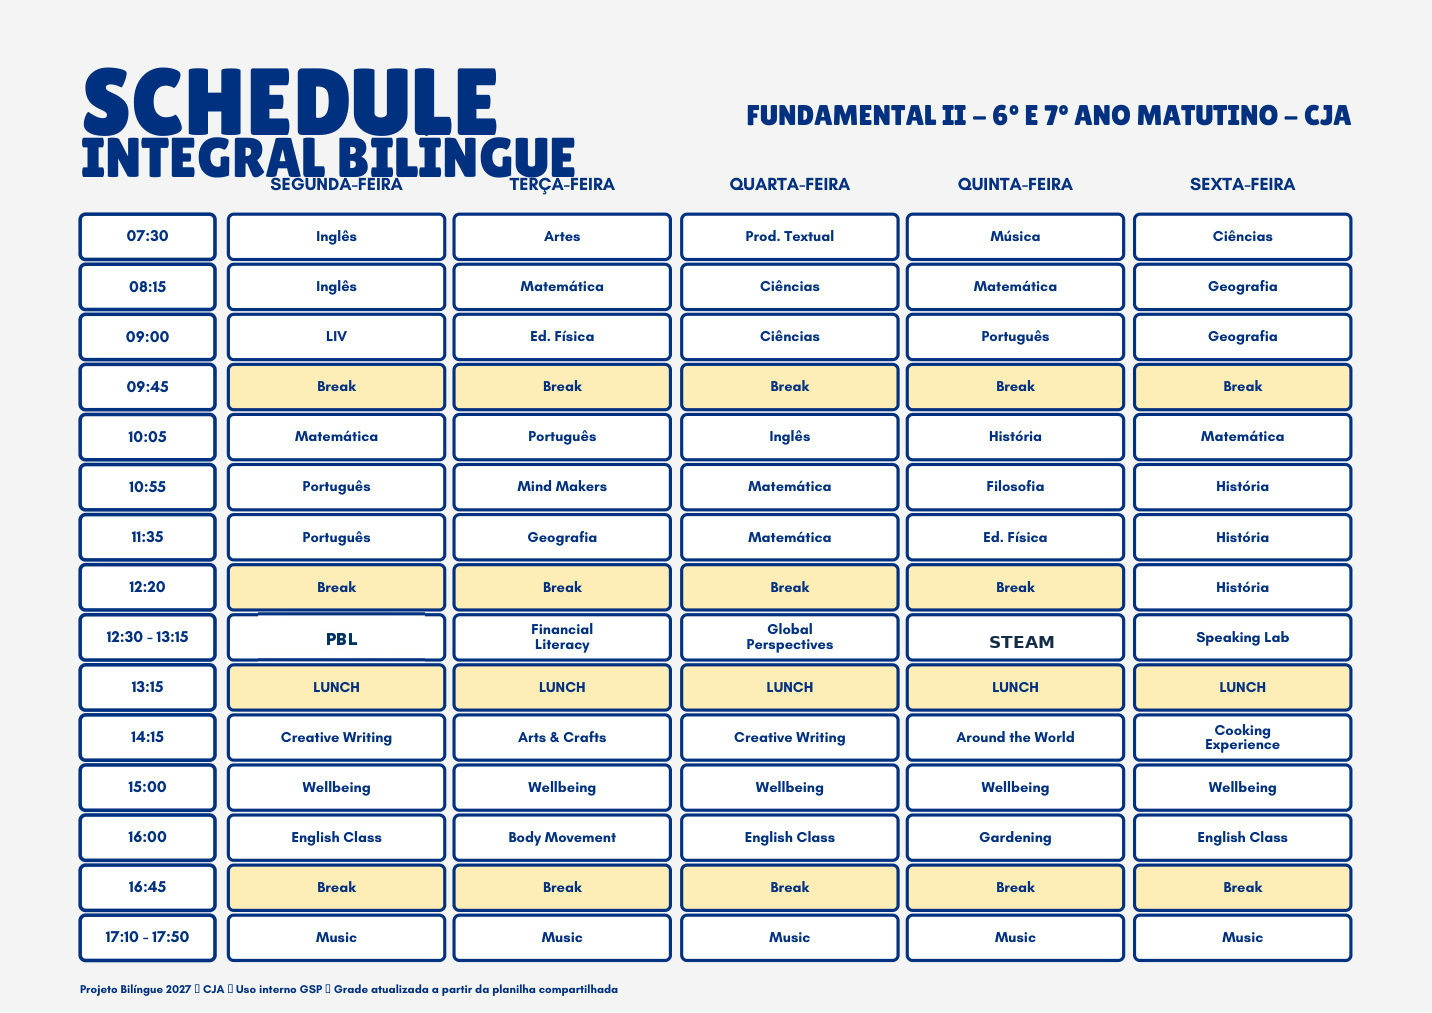
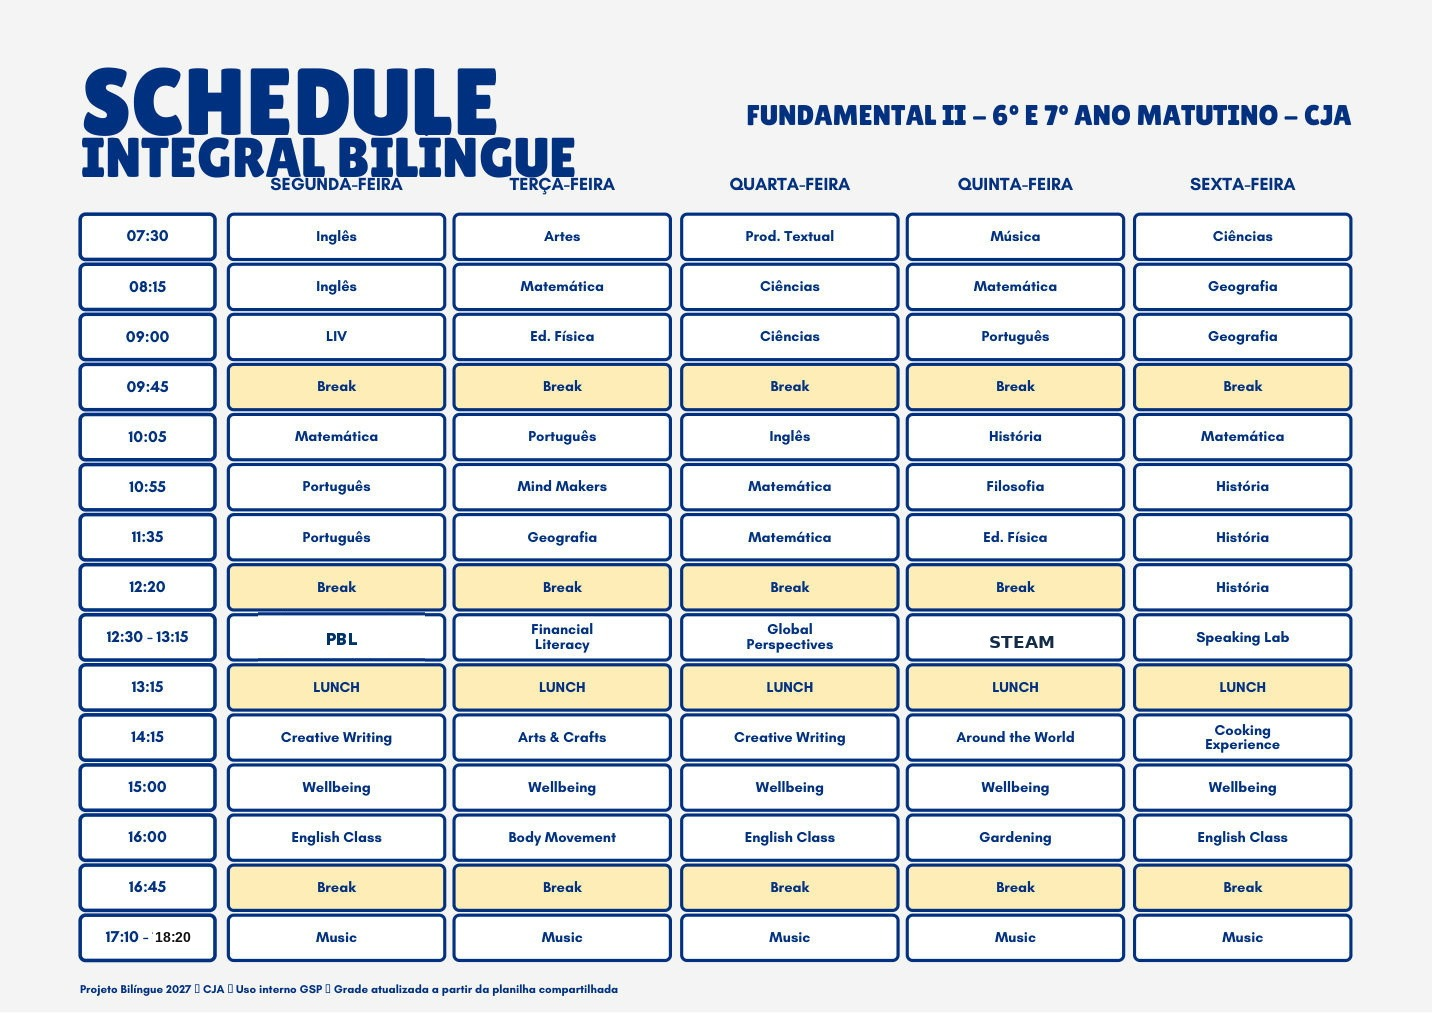
Ajusta horário final grade CJA F2 Integral

diff --git a/index.html b/index.html
@@ -71,7 +71,7 @@ function openSchool(id){currentSchool=portal.schools.find(s=>s.id===id);document
 function resizeEmbeddedFrame(frame){try{if(!frame||!frame.contentWindow||!frame.contentWindow.document)return;const doc=frame.contentWindow.document;const body=doc.body,html=doc.documentElement;const h=Math.max(body?body.scrollHeight:0,700);frame.style.height=(h+24)+'px';}catch(e){}}
 function watchEmbeddedFrame(frame){if(!frame)return;const run=()=>resizeEmbeddedFrame(frame);frame.onload=()=>{run();try{const doc=frame.contentWindow.document;doc.querySelectorAll('img').forEach(img=>{img.addEventListener('load',run,{once:false});img.addEventListener('error',run,{once:false});});if(window.ResizeObserver){const ro=new ResizeObserver(run);ro.observe(doc.body);ro.observe(doc.documentElement);}let ticks=0;const timer=setInterval(()=>{run();if(++ticks>=18)clearInterval(timer);},500);}catch(e){}};run();setTimeout(run,700);setTimeout(run,1800);setTimeout(run,3500);}
 function resizeAllEmbeddedFrames(){['embeddedManualFrame','embeddedGradesFrame'].forEach(id=>resizeEmbeddedFrame($(id)));}
-const PORTAL_ASSET_VERSION='20260825-praia-grande-fund1-atualizado-v1';function versionedPage(file){return `${file}?v=${PORTAL_ASSET_VERSION}`}function pageExistsForSchool(kind){if(!currentSchool)return false;if(kind==='manual')return true;if(kind==='grades')return (currentSchool.materials||[]).some(x=>x.type==='grade')||(currentSchool.content||[]).some(x=>x.source==='Grades horárias')}function renderEmbeddedMaterials(){const panel=$('embeddedManualPanel');const grades=$('embeddedGradesPanel');if(!panel||!currentSchool)return;const manualFile=currentSchool.id==='cja'?'cja-manual.html':`${currentSchool.id}-manual.html`;panel.classList.remove('hidden');$('embeddedManualTitle').textContent='Manual Comercial Pedagógico';$('embeddedManualHint').textContent='Consulta por tópicos para apoiar explicações, alinhamento e atendimento às famílias.';$('embeddedManualNote').textContent='';const frame=$('embeddedManualFrame');if(frame){watchEmbeddedFrame(frame);if(!frame.src.includes(manualFile)||!frame.src.includes(PORTAL_ASSET_VERSION))frame.src=versionedPage(manualFile)}if(grades){const hasGrades=pageExistsForSchool('grades');if(hasGrades){const gradeFile=currentSchool.id==='cja'?'cja-grades.html':`${currentSchool.id}-grades.html`;grades.classList.remove('hidden');$('embeddedGradesTitle').textContent='Grades horárias';$('embeddedGradesHint').textContent='Visualização das grades por segmento e produto.';$('embeddedGradesNote').textContent='';const gframe=$('embeddedGradesFrame');if(gframe){watchEmbeddedFrame(gframe);if(!gframe.src.includes(gradeFile)||!gframe.src.includes(PORTAL_ASSET_VERSION))gframe.src=versionedPage(gradeFile)}}else{grades.classList.add('hidden')}}}
+const PORTAL_ASSET_VERSION='20260825-cja-f2-integral-matutino-1820-v1';function versionedPage(file){return `${file}?v=${PORTAL_ASSET_VERSION}`}function pageExistsForSchool(kind){if(!currentSchool)return false;if(kind==='manual')return true;if(kind==='grades')return (currentSchool.materials||[]).some(x=>x.type==='grade')||(currentSchool.content||[]).some(x=>x.source==='Grades horárias')}function renderEmbeddedMaterials(){const panel=$('embeddedManualPanel');const grades=$('embeddedGradesPanel');if(!panel||!currentSchool)return;const manualFile=currentSchool.id==='cja'?'cja-manual.html':`${currentSchool.id}-manual.html`;panel.classList.remove('hidden');$('embeddedManualTitle').textContent='Manual Comercial Pedagógico';$('embeddedManualHint').textContent='Consulta por tópicos para apoiar explicações, alinhamento e atendimento às famílias.';$('embeddedManualNote').textContent='';const frame=$('embeddedManualFrame');if(frame){watchEmbeddedFrame(frame);if(!frame.src.includes(manualFile)||!frame.src.includes(PORTAL_ASSET_VERSION))frame.src=versionedPage(manualFile)}if(grades){const hasGrades=pageExistsForSchool('grades');if(hasGrades){const gradeFile=currentSchool.id==='cja'?'cja-grades.html':`${currentSchool.id}-grades.html`;grades.classList.remove('hidden');$('embeddedGradesTitle').textContent='Grades horárias';$('embeddedGradesHint').textContent='Visualização das grades por segmento e produto.';$('embeddedGradesNote').textContent='';const gframe=$('embeddedGradesFrame');if(gframe){watchEmbeddedFrame(gframe);if(!gframe.src.includes(gradeFile)||!gframe.src.includes(PORTAL_ASSET_VERSION))gframe.src=versionedPage(gradeFile)}}else{grades.classList.add('hidden')}}}
 function renderFaq(filter=''){const panel=$('faqPanel');if(!currentSchool||!currentSchool.faq||currentModule!=='qa'){panel.classList.add('hidden');return}panel.classList.remove('hidden');const q=norm(filter);let rows=currentSchool.faq||[];if(q){const parts=q.split(/\s+/).filter(Boolean);rows=rows.map(f=>{const hay=norm([f.category,f.question,f.answer].join(' '));let score=0;for(const p of parts){if(hay.includes(p))score++;if(norm(f.question).includes(p))score+=2}return {...f,score}}).filter(f=>f.score>0).sort((a,b)=>b.score-a.score)}else{rows=rows.slice(0,18)}$('faqList').innerHTML=rows.length?rows.slice(0,60).map((f,i)=>`<article class="faqItem"><button class="faqQuestion"><span><span class="categoryChip">${esc(f.category.replace(/^\d+\.\s*/,''))}</span><br>${esc(f.question)}</span></button><div class="faqAnswer"><p>${esc(f.answer)}</p></div></article>`).join(''):'<div class="empty">Não encontrei essa pergunta no FAQ visual. Tente outra palavra ou use o campo de busca principal.</div>';$('faqList').querySelectorAll('.faqQuestion').forEach(btn=>btn.onclick=()=>btn.closest('.faqItem').classList.toggle('open'));}
 function qaPdfUrl(){const m=(currentSchool.materials||[]).find(x=>x.type==='qa')||(currentSchool.materials||[]).find(x=>/Q&A|QA/i.test(x.label));return m?m.url:'#'}
 
@@ -124,6 +124,6 @@ function initChat(){if(!$('chatToggle'))return;$('chatToggle').onclick=openChat;
 window.PORTAL_COUNTER_ENDPOINT='https://gsp-portal-counter.andressa-carmo.workers.dev';
 function formatAccessCount(n){return new Intl.NumberFormat('pt-BR').format(n)}
 async function loadAccessCounter(){const endpoint=(window.PORTAL_COUNTER_ENDPOINT||'').trim();const metric=$('accessMetric'),count=$('accessCount'),phrase=$('accessPhrase'),privacy=$('accessPrivacy');if(!metric||!count||!phrase||!privacy)return;if(!endpoint)return;try{const res=await fetch(endpoint,{cache:'no-store'});if(!res.ok)throw new Error('counter unavailable');const data=await res.json();const total=Number(data.total||data.count||data.views||0);if(total>0){metric.classList.remove('pending');count.classList.remove('pending');count.textContent=formatAccessCount(total);phrase.textContent='Este portal já apoiou as escolas GSP';const visibleCount=document.querySelector('.accessInlineCount');const visibleLabel=document.querySelector('.accessTimes');if(visibleCount){visibleCount.id='accessCount';visibleCount.classList.remove('pending');visibleCount.textContent=formatAccessCount(total)}if(visibleLabel)visibleLabel.textContent='vezes';privacy.textContent='Cada acesso ao portal ajuda a transformar informação em segurança para atender famílias, alunos e colaboradores.'}}catch(e){console.warn('contador de acessos indisponível',e)}}
-fetch('data.json?v=20260825-praia-grande-fund1-atualizado-v1').then(r=>r.json()).then(d=>{portal=d;renderLanding();$('backHome').onclick=e=>{e.preventDefault();home()};$('topBack').onclick=e=>{e.preventDefault();home()};document.querySelectorAll('.module[data-module]').forEach(b=>b.onclick=()=>selectModule(b.dataset.module));if($('openAttendance'))$('openAttendance').onclick=openAttendanceMode;if($('closeAttendance'))$('closeAttendance').onclick=closeAttendanceMode;if($('askAttendance'))$('askAttendance').onclick=()=>{$('q').focus();$('q').scrollIntoView({behavior:'smooth',block:'center'});};if($('attendanceContent'))$('attendanceContent').onclick=e=>{const b=e.target.closest('button[data-att-search]');if(!b)return;$('q').value=b.dataset.attSearch;runSearch();};$('askBtn').onclick=()=>runSearch();$('q').addEventListener('keydown',e=>{if(e.key==='Enter')runSearch()});$('clear').onclick=()=>{$('q').value='';currentTopic='';document.querySelectorAll('.topic').forEach(x=>x.classList.remove('active'));$('resultsPanel').classList.add('hidden')};$('showAll').onclick=()=>runSearch('',true);$('faqSearch').oninput=e=>renderFaq(e.target.value);$('expandFaq').onclick=()=>{const items=[...document.querySelectorAll('.faqItem')];const open=items.some(x=>!x.classList.contains('open'));items.forEach(x=>x.classList.toggle('open',open));$('expandFaq').textContent=open?'Fechar todas':'Abrir todas'};initChat();updateChatVisibility();loadAccessCounter();const initial=location.hash.replace('#','');if(initial&&portal.schools.some(s=>s.id===initial&&s.content.length))openSchool(initial);setTimeout(resizeAllEmbeddedFrames,1200);window.addEventListener('resize',()=>setTimeout(resizeAllEmbeddedFrames,120));});
+fetch('data.json?v=20260825-cja-f2-integral-matutino-1820-v1').then(r=>r.json()).then(d=>{portal=d;renderLanding();$('backHome').onclick=e=>{e.preventDefault();home()};$('topBack').onclick=e=>{e.preventDefault();home()};document.querySelectorAll('.module[data-module]').forEach(b=>b.onclick=()=>selectModule(b.dataset.module));if($('openAttendance'))$('openAttendance').onclick=openAttendanceMode;if($('closeAttendance'))$('closeAttendance').onclick=closeAttendanceMode;if($('askAttendance'))$('askAttendance').onclick=()=>{$('q').focus();$('q').scrollIntoView({behavior:'smooth',block:'center'});};if($('attendanceContent'))$('attendanceContent').onclick=e=>{const b=e.target.closest('button[data-att-search]');if(!b)return;$('q').value=b.dataset.attSearch;runSearch();};$('askBtn').onclick=()=>runSearch();$('q').addEventListener('keydown',e=>{if(e.key==='Enter')runSearch()});$('clear').onclick=()=>{$('q').value='';currentTopic='';document.querySelectorAll('.topic').forEach(x=>x.classList.remove('active'));$('resultsPanel').classList.add('hidden')};$('showAll').onclick=()=>runSearch('',true);$('faqSearch').oninput=e=>renderFaq(e.target.value);$('expandFaq').onclick=()=>{const items=[...document.querySelectorAll('.faqItem')];const open=items.some(x=>!x.classList.contains('open'));items.forEach(x=>x.classList.toggle('open',open));$('expandFaq').textContent=open?'Fechar todas':'Abrir todas'};initChat();updateChatVisibility();loadAccessCounter();const initial=location.hash.replace('#','');if(initial&&portal.schools.some(s=>s.id===initial&&s.content.length))openSchool(initial);setTimeout(resizeAllEmbeddedFrames,1200);window.addEventListener('resize',()=>setTimeout(resizeAllEmbeddedFrames,120));});
 </script>
 </body></html>

diff --git a/cja-grades.html b/cja-grades.html
@@ -180,7 +180,7 @@
           <a class="gradeImageLink" href="assets/cja-grades/cja-grade-p10.jpg?v=20260813-cja-steam-final" target="_blank" rel="noopener"><img src="assets/cja-grades/cja-grade-p10.jpg?v=20260813-cja-steam-final" loading="eager" alt="Grade CJA — REGULAR BILÍNGUE — FUNDAMENTAL II - 6º AO 9º ANO VESPERTINO - CJA"></a>
         </article><article class="gradeCard" style="--accent:#ff6900">
           <div class="gradeInfo"><span>INTEGRAL BILÍNGUE</span><h3>FUNDAMENTAL II - 6º E 7º ANO MATUTINO - CJA</h3><p>Página 11 do PDF oficial corrigido.</p></div>
-          <a class="gradeImageLink" href="assets/cja-grades/cja-grade-p11.jpg?v=20260813-cja-steam-final" target="_blank" rel="noopener"><img src="assets/cja-grades/cja-grade-p11.jpg?v=20260813-cja-steam-final" loading="eager" alt="Grade CJA — INTEGRAL BILÍNGUE — FUNDAMENTAL II - 6º E 7º ANO MATUTINO - CJA"></a>
+          <a class="gradeImageLink" href="assets/cja-grades/cja-grade-p11.jpg?v=20260825-cja-f2-integral-matutino-1820-v1" target="_blank" rel="noopener"><img src="assets/cja-grades/cja-grade-p11.jpg?v=20260825-cja-f2-integral-matutino-1820-v1" loading="eager" alt="Grade CJA — INTEGRAL BILÍNGUE — FUNDAMENTAL II - 6º E 7º ANO MATUTINO - CJA"></a>
         </article><article class="gradeCard" style="--accent:#ff6900">
           <div class="gradeInfo"><span>INTEGRAL BILÍNGUE</span><h3>FUNDAMENTAL II - 6º E 7º ANO VESPERTINO - CJA</h3><p>Página 12 do PDF oficial corrigido.</p></div>
           <a class="gradeImageLink" href="assets/cja-grades/cja-grade-p12.jpg?v=20260813-cja-steam-final" target="_blank" rel="noopener"><img src="assets/cja-grades/cja-grade-p12.jpg?v=20260813-cja-steam-final" loading="eager" alt="Grade CJA — INTEGRAL BILÍNGUE — FUNDAMENTAL II - 6º E 7º ANO VESPERTINO - CJA"></a>
